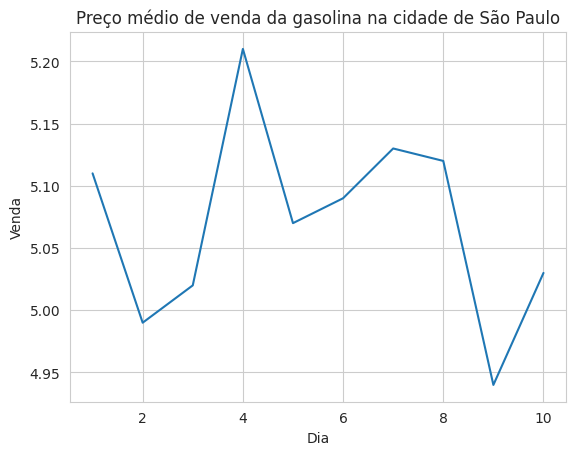
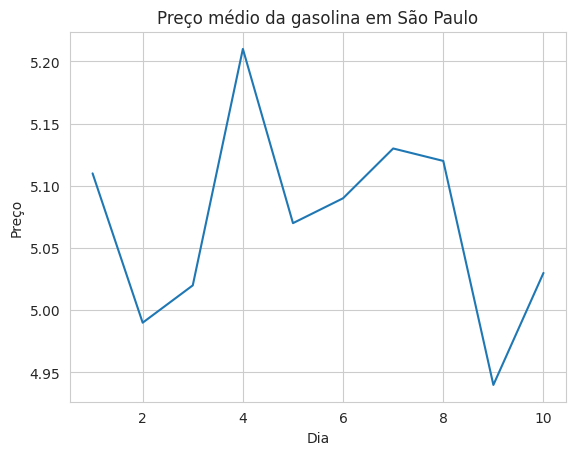
arquivo gasolina.png alterado

Changed region(s): [[0.125, 0.0, 0.9688, 0.0615], [0.0, 0.4308, 0.0625, 0.5231]]

diff --git a/gasolina.py b/gasolina.py
@@ -5,7 +5,7 @@ preco_gasolina = pd.read_csv('gasolina.csv', sep=',')
 with sns.axes_style('whitegrid'):
 
   grafico = sns.lineplot(data=preco_gasolina, x="dia", y="venda")
-  grafico.set(title='Preço médio de venda da gasolina na cidade de São Paulo', xlabel='Dia', ylabel='Venda');
+  grafico.set(title='Preço médio da gasolina em São Paulo', xlabel='Dia', ylabel='Preço');
 
   fig = grafico.get_figure()
   fig.savefig(fname="gasolina.png", bbox_inches="tight")
